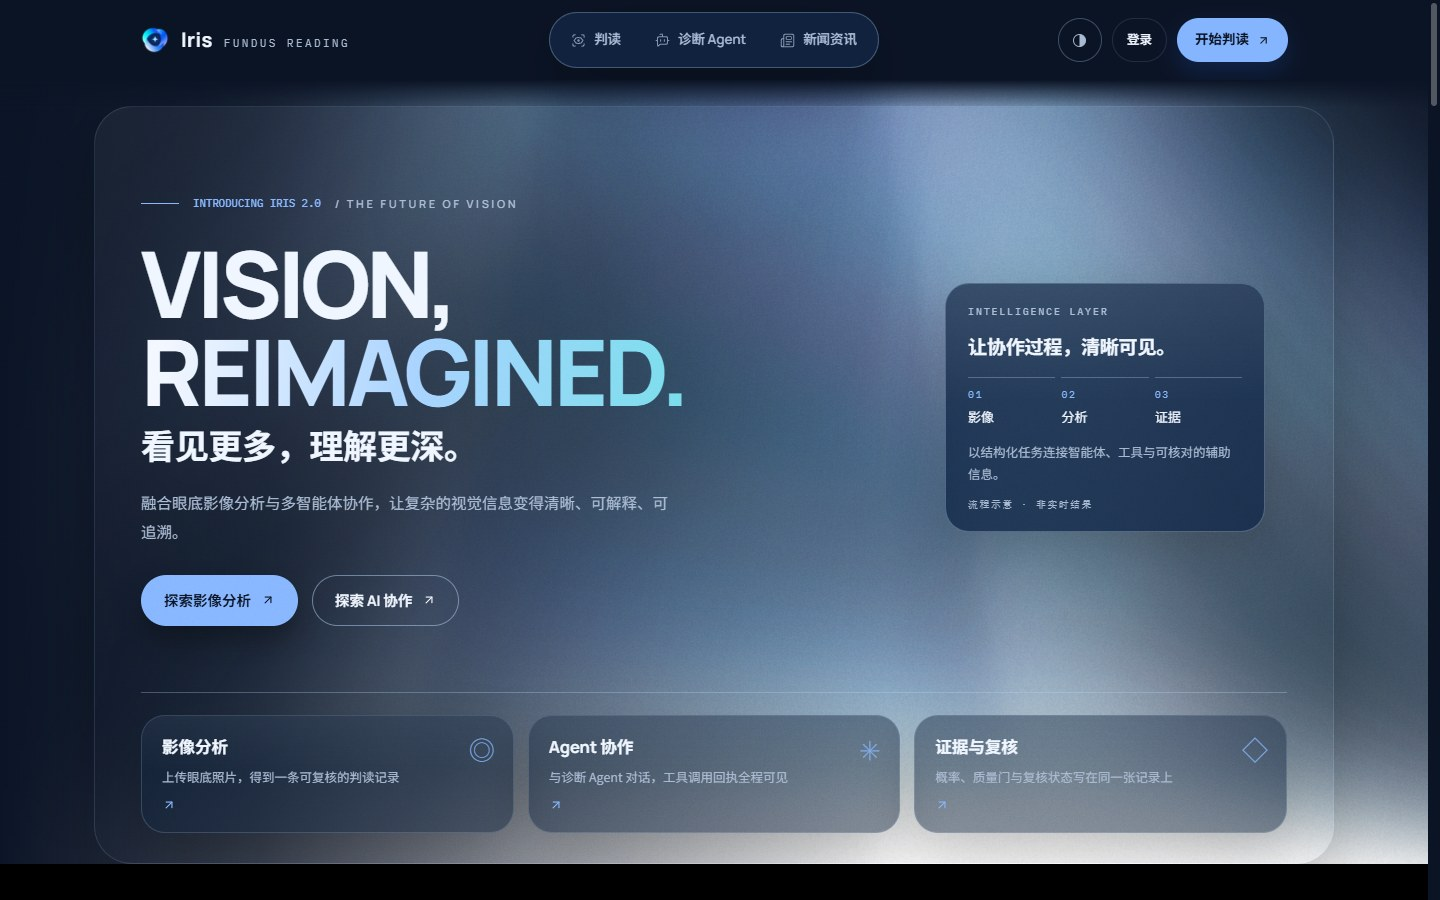
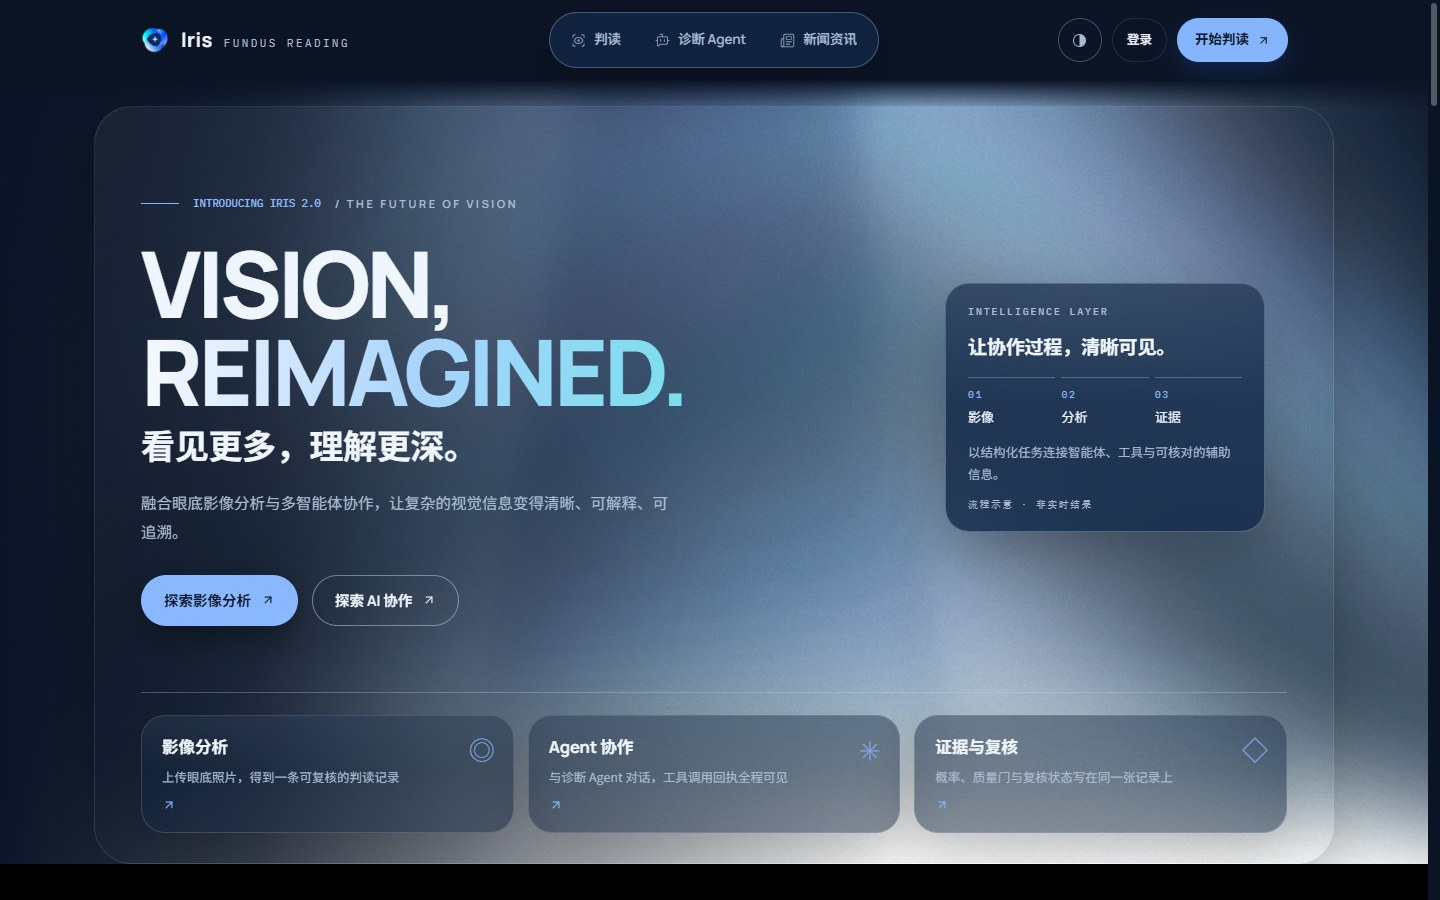
feat(web): 首屏动效 5 秒后停帧并记录许可确认
- HeroPrism：自动循环只跑 5 秒，之后 data-mode=settled，timeScale 与 noise
  归零、停在当前相位；不增加手动暂停控件，reduced-motion 仍可随时冻结
- 补 HeroPrism 自动停帧单测；性能采集改为动效窗口内 3×1s 并断言 settled，
  重采亮/暗截图与读数
- 核对上游 LICENSE.md 原文，修正照录文本；按产品负责人 2026-11-16 的确认
  记录公开仓库分发解释（风险接受，非上游书面授权）
- DESIGN.md 同步动效规则与第三方许可说明

diff --git a/web/src/components/brand/HeroPrism.tsx b/web/src/components/brand/HeroPrism.tsx
@@ -1,4 +1,4 @@
-import { useCallback, useState, type ReactElement } from "react"
+import { useCallback, useEffect, useState, type ReactElement } from "react"
 
 import Prism from "./Prism"
 import { useMediaQuery } from "@/lib/useMediaQuery"
@@ -7,11 +7,12 @@ import { useMediaQuery } from "@/lib/useMediaQuery"
  * 首屏光学主视觉：Prism。
  *
  * <p>Prism 是 React Bits 的 WebGL2 棱镜光场（vendored，见 THIRD-PARTY-NOTICES.md）。
- * 这一层只做三件事：
+ * 这一层只做四件事：
  * <ul>
  *   <li>把品牌色板喂给着色器——亮色是钴蓝/青的墨，暗色是冰蓝/极光的发光体；</li>
  *   <li>把 `prefers-reduced-motion` 折算成 `timeScale = 0`，画面冻结在当前帧，
  *       而不是换一张图；</li>
+ *   <li>自动循环只跑 5 秒（`data-mode="settled"` 后停住），不设手动暂停控件；</li>
  *   <li>WebGL2 不可用 / 着色器失败 / 上下文丢失时切到静态棱镜。</li>
  * </ul>
  *
@@ -19,6 +20,12 @@ import { useMediaQuery } from "@/lib/useMediaQuery"
  */
 
 type Theme = "light" | "dark"
+
+/**
+ * 首屏动效窗口：intro 1.4s + 约 3.6s 旋转，满 5s 后停在当前相位。
+ * 不设手动暂停控件；系统 reduced-motion 仍可随时立即冻结。
+ */
+const MOTION_WINDOW_MS = 5000
 
 export type HeroPrismProps = {
   theme: Theme
@@ -39,11 +46,19 @@ export function HeroPrism({ theme, className }: HeroPrismProps): ReactElement {
   const reduce = useMediaQuery("(prefers-reduced-motion: reduce)")
   const narrow = useMediaQuery("(max-width: 1024px)")
   const [unavailable, setUnavailable] = useState(false)
+  const [settled, setSettled] = useState(false)
   const handleUnavailable = useCallback(() => setUnavailable(true), [])
+
+  // 自动循环动效只跑一个窗口，之后冻结在当前相位；不增加手动暂停控件。
+  useEffect(() => {
+    const timer = window.setTimeout(() => setSettled(true), MOTION_WINDOW_MS)
+    return () => window.clearTimeout(timer)
+  }, [])
 
   const lowEnd =
     typeof navigator !== "undefined" && (navigator.hardwareConcurrency ?? 8) <= 4
-  const mode = unavailable ? "static" : reduce ? "frozen" : "live"
+  const frozen = reduce || settled
+  const mode = unavailable ? "static" : reduce ? "frozen" : settled ? "settled" : "live"
   const classes = ["hero-prism", className].filter(Boolean).join(" ")
 
   return (
@@ -58,7 +73,7 @@ export function HeroPrism({ theme, className }: HeroPrismProps): ReactElement {
       ) : (
         <Prism
           animationType="rotate"
-          timeScale={reduce ? 0 : 0.3}
+          timeScale={frozen ? 0 : 0.3}
           height={narrow ? 4.6 : 4.8}
           baseWidth={narrow ? 7.2 : 7.6}
           scale={narrow ? 3.8 : 4.4}
@@ -67,7 +82,7 @@ export function HeroPrism({ theme, className }: HeroPrismProps): ReactElement {
           glow={0.75}
           saturation={theme === "light" ? 1.4 : 1.6}
           colorFrequency={2}
-          noise={theme === "light" ? 0.03 : 0.05}
+          noise={frozen ? 0 : theme === "light" ? 0.03 : 0.05}
           interactive={!lowEnd}
           hoverStrength={1.5}
           inertia={0.05}

diff --git a/web/src/components/brand/HeroPrism.test.tsx b/web/src/components/brand/HeroPrism.test.tsx
@@ -10,6 +10,7 @@ import {
 
 afterEach(() => {
   cleanup()
+  vi.useRealTimers()
   vi.unstubAllGlobals()
   vi.restoreAllMocks()
 })
@@ -66,5 +67,26 @@ describe("HeroPrism", () => {
     expect(container.querySelector(".hero-prism")?.getAttribute("data-theme")).toBe("dark")
     expect(container.querySelector("canvas")).toBe(canvas)
     expect(webgl2Requests()).toBe(1)
+  })
+
+  it("自动循环五秒后停在当前相位，且没有手动暂停控件", () => {
+    installFakeWebgl2()
+    const raf = installRafHarness()
+    vi.useFakeTimers()
+
+    const { container } = render(<HeroPrism theme="light" />)
+    const root = () => container.querySelector(".hero-prism") as HTMLElement
+
+    expect(root().dataset.mode).toBe("live")
+    expect(container.querySelector("button")).toBeNull()
+
+    act(() => {
+      vi.advanceTimersByTime(5000)
+    })
+    expect(root().dataset.mode).toBe("settled")
+
+    // 冻结后引擎只再画一帧（timeScale / noise 归零），随后不再排帧。
+    raf.flush()
+    expect(raf.pending()).toBe(0)
   })
 })

diff --git a/docs/assets/iris2/hero-prism-performance.md b/docs/assets/iris2/hero-prism-performance.md
@@ -1,9 +1,10 @@
 # 首屏 Prism · 视觉与性能记录（2026-11-16）
 
 > 这是**本机真实浏览器**的采集记录，不是 CI 门禁，也不是跨设备的性能承诺。
-> 生命周期契约（StrictMode、上下文丢失、离屏/后台暂停、reduced-motion 切换）
-> 由 `web/src/components/brand/Prism.test.tsx` 与 `HeroPrism.test.tsx` 覆盖；
-> 本文只回答两件事：首屏实际长什么样、稳态运行时掉不掉帧。
+> 生命周期契约（StrictMode、上下文丢失、离屏/后台暂停、reduced-motion 切换、
+> 5 秒自动停帧）由 `web/src/components/brand/Prism.test.tsx` 与
+> `HeroPrism.test.tsx` 覆盖；本文只回答两件事：首屏实际长什么样、
+> **动效窗口内**掉不掉帧。
 
 ## 截图
 
@@ -13,7 +14,7 @@
 | Dark | `docs/assets/iris2/hero-prism-1440-dark.jpg` |
 
 - 视口 1440×900 @1x，生产构建（`npm run build` + `vite preview`），headful Chromium。
-- 等 intro（1.4s）结束后再截；画面处于常规旋转相位，不是降级静态图。
+- 截图在挂载后约 4.5s 拍摄：intro 已结束、仍在 5s 动效窗口内，不是冻结后的静态帧。
 - 浏览器：Playwright `chromium-1234`（`chrome-win64`），未使用 SwiftShader。
 
 ## 环境
@@ -24,38 +25,47 @@
 | 视口 / DPR | 1440×900 / 1 |
 | Canvas 缓冲区 | 1071×588（CSS 1428×784，分辨率系数 0.75） |
 | 逻辑核心 | 16 |
-| JS 堆 | ≈ 5.9 MB |
+| JS 堆 | ≈ 5.7–5.9 MB |
 | WebGL2 上下文 | 1 |
 
-## 方法
+## 方法（本轮修正）
 
-- 每个主题跑 **3 个 3 秒窗口**，取中位数；采样前先等 intro 结束。
+- 首屏动效现在**满 5 秒自动停在当前相位**，所以采样必须落在
+  intro 之后、冻结之前：挂载后约 **1.5–4.5s**。
+- 该窗口内跑 **3 个 1 秒采样**，取中位数；不把冻结后的静态帧算进 FPS。
 - `dropped` 指单帧 > 20ms 的帧数；`p95` 为帧间隔 95 分位。
 - 长任务用 `PerformanceObserver({ type: "longtask" })`，**不取 buffered**，
-  只统计稳态窗口，不含首屏加载。
+  只统计采样窗口。
 - 通过改写 `HTMLCanvasElement.prototype.getContext` 统计「首次拿到 webgl2 的画布数」，
   重复 `getContext` 不重复计数。
+- 采样结束后再等 1.2s，断言 `.hero-prism[data-mode]` 已变为 `settled`。
+
+> 旧口径（3×3 秒）会跨过 5 秒冻结点，把静态帧混进 FPS，已废弃。
 
 ## 结果
 
-| 主题 | FPS 中位数（范围） | p95 帧间隔 | 掉帧 / 采样帧 | 稳态长任务 |
+| 主题 | FPS 中位数（范围） | p95 帧间隔 | 掉帧 / 采样帧 | 窗口内长任务 |
 |---|---|---|---|---|
-| Light | **52.9**（51.3–54.8） | 31.9 ms | 149 / 478 | 0 |
-| Dark | **48.3**（41.2–50.6） | 36.4 ms | 206 / 421 | 0 |
+| Light | **55.0**（52.6–56.8） | 36.4 ms | 60 / 167 | 0 |
+| Dark | **45.7**（45.1–47.3） | 36.4 ms | 81 / 140 | 0 |
 
-亮/暗切换（同页点击主题钮）：
+亮/暗切换（同页点击主题钮，冻结之后）：
 
 - WebGL2 上下文数保持 **1**，没有重建；
-- `.hero-prism[data-theme]` 变为 `dark`，`html.dark` 生效，`data-mode` 仍为 `live`。
+- `.hero-prism[data-theme]` 变为 `dark`，`html.dark` 生效。
+
+自动停帧（真实浏览器）：
+
+- 采样结束后观察到 `data-mode="settled"`，分别在 `performance.now()` ≈ 8115ms / 7356ms
+  （含导航与加载时间）；冻结点由挂载起算 5s，与单测一致。
 
 ## 解读
 
-- 集成显卡上稳态约 **48–53 fps**，p95 32–36ms，**没有长任务**；掉帧集中在
-  2–3 帧的偶发尖峰，没有持续劣化。
-- 暗色主题中位数低约 5 fps，3 次采样方差也更大；在同一着色器成本下，
-  更像是暗色画布叠加与桌面合成带来的波动，而不是引擎重建或主线程阻塞。
-- 该画面是纯装饰层，`prefers-reduced-motion: reduce` 下会冻结在当前帧；
-  掉帧不阻塞任何判读交互。
+- 集成显卡上动效窗口内中位数 **46–55 fps**，p95 36.4ms，**没有长任务**；
+  掉帧是 2–3 帧的偶发尖峰，没有持续劣化。
+- 暗色主题中位数低约 9 fps；同一着色器成本下，更像暗色画布叠加与桌面合成
+  带来的波动，而不是引擎重建或主线程阻塞。
+- 动效 5 秒后自动停止，稳态不再持续占用 GPU；画面保留最后一帧，鼠标倾斜仍可用。
 
 ## 复现
 

diff --git a/web/src/components/brand/THIRD-PARTY-NOTICES.md b/web/src/components/brand/THIRD-PARTY-NOTICES.md
@@ -45,8 +45,7 @@ Copyright (c) 2026 David Haz
 Permission is hereby granted, free of charge, to any person obtaining a copy
 of this software and associated documentation files (the "Software"), to deal
 in the Software without restriction, including without limitation the rights
-to use, copy, modify, merge, publish, distribute, sublicense, and/or sell copies of the
-Software **as part of an application, website, or product**, subject to the following conditions:
+to use, copy, modify, merge, publish, distribute the Software **as part of an application, website, or product**, subject to the following conditions:
 
 The above copyright notice and this permission notice shall be included in all
 copies or substantial portions of the Software.
@@ -70,26 +69,36 @@ OUT OF OR IN CONNECTION WITH THE SOFTWARE OR THE USE OR OTHER DEALINGS IN THE
 SOFTWARE.
 ```
 
-### 许可判断（**待产品负责人确认，不是结论**）
+### 分发授权核对（2026-11-16）
 
-这段话允许的：**把它作为应用 / 网站 / 产品的一部分使用，包含商业用途**，允许修改。
-这段话限制的：**不得销售、再许可、再分发「组件本身」——单独、打包、或以移植版的形式。**
+**已核对上游原文**：`https://raw.githubusercontent.com/DavidHDev/react-bits/main/LICENSE.md`
+（HTTP 200，2026-11-16）；README 的 License 段落写的是
+"MIT + Commons Clause, free for personal and commercial use"。
 
-本项目符合的部分：
+允许的：把软件**作为应用 / 网站 / 产品的一部分**使用、复制、修改、合并、发布与分发，
+包含商业用途；版权与许可声明随附。
 
-- 它只作为 Iris 内部产品的一个首屏背景使用，不单独售卖、不再许可；
-- 版权与许可声明在两处保留（本文件 + `Prism.tsx` 文件头）。
+限制的（Commons Clause）：**不得销售、再许可、再分发「组件本身」——单独、打包、
+或以移植版的形式。**
 
-**需要确认的一点**：本仓库是**公开仓库**，`Prism.tsx` 是一份「补类型 + 改生命周期的
-移植版」，并且随仓库公开分发。严格按字面，"redistribute the components themselves …
-as a ported version" 覆盖这种情况。合规的做法有三条路，按代价从低到高：
+**与本仓库的关系**：`Prism.tsx` 是补类型并改生命周期的**移植版**，本仓库是
+**公开仓库**（GitHub `yuwen773/eyes-diagnosis`，PUBLIC）。严格按字面，
+「公开仓库里的移植版源码」落在 "redistribute … as a ported version" 的限制范围内；
+MIT 的 "as part of an application" 是否覆盖公开源码分发，原文没有给出明确许可。
 
-1. **保持现状 + 记录在案**：由负责人书面确认「内部产品、公开仓库、非商业分发」这一解释；
-2. **仓库里不放 vendored 副本**：把 `Prism.tsx` / `Prism.css` 移到运行时私有依赖
-   或构建期注入，开源仓库只留接口与说明；
-3. **换成自研或更宽松许可的实现**。
+### 分发授权结论（2026-11-16，负责人确认）
 
-本文件只做第 1 条的「记录在案」，不擅自替负责人做合规判断。
+产品负责人于 2026-11-16 确认按以下解释**保留现状**：
+
+- 本仓库是公开的**非商业演示 / 学术项目**（Iris 眼底判读），Prism 只作为应用
+  首屏背景的一部分使用；
+- 不销售、不再许可、不把 Prism 组件本身（含移植版）作为独立组件、模板或
+  付费产品分发；
+- 版权与许可声明保留在本文件与 `Prism.tsx` 文件头。
+
+这是项目方对 Commons Clause 公开源码分发解释的**风险接受**，不是上游的书面授权。
+若后续项目商业化、改为组件库，或上游提出异议，应重新评估；必要时改为私有依赖
+或自研实现。
 
 ---
 

diff --git a/DESIGN.md b/DESIGN.md
@@ -1069,7 +1069,8 @@ Brand 场景的玻璃面板用 `--brand-shadow`（蓝墨投影），其余场景
 **全场景硬要求（两条都适用）**
 - **性能与生命周期**：有明确的性能预算；离屏即停；页面隐藏即停；
   `prefers-reduced-motion: reduce` 下**当场停**（实时订阅，不是一次性读取）；
-  首屏动效不设手动控件，系统动效偏好是唯一的冻结入口。
+  首屏动效不设手动控件：intro 后自动旋转约 5 秒即停（`data-mode="settled"`），
+  系统动效偏好仍可随时立即冻结。
 - **入场与可访问性**：入场位移不超过 12px，透明度 0→1；流式输出配 live region；
   动效不得造成布局位移（CLS）或遮挡可点击目标。
 
@@ -1113,6 +1114,8 @@ Brand 场景的玻璃面板用 `--brand-shadow`（蓝墨投影），其余场景
     单色版在 16px 下简化为「环 + 心」结构，管理端实际使用 24px。
 - **React Bits · Prism** 是 vendored 代码：必须保留**许可原文**与**取用记录**，
   记录在 `web/src/components/brand/THIRD-PARTY-NOTICES.md`。上游无版本标签时按取用日期记录。
+  公开仓库分发按 2026-11-16 负责人确认的解释保留（非商业演示 / 学术项目、
+  不作为组件单独分发或售卖）；该确认是风险接受，不是上游书面授权。
 - **不新开特效库**：品牌特效优先复用已 vendored 的 Prism。
   **首页只允许一个正在运行的 GPU 背景。**
 - 图片资产要考虑长文案、不同色彩模式与深浅主题下的可读性。
